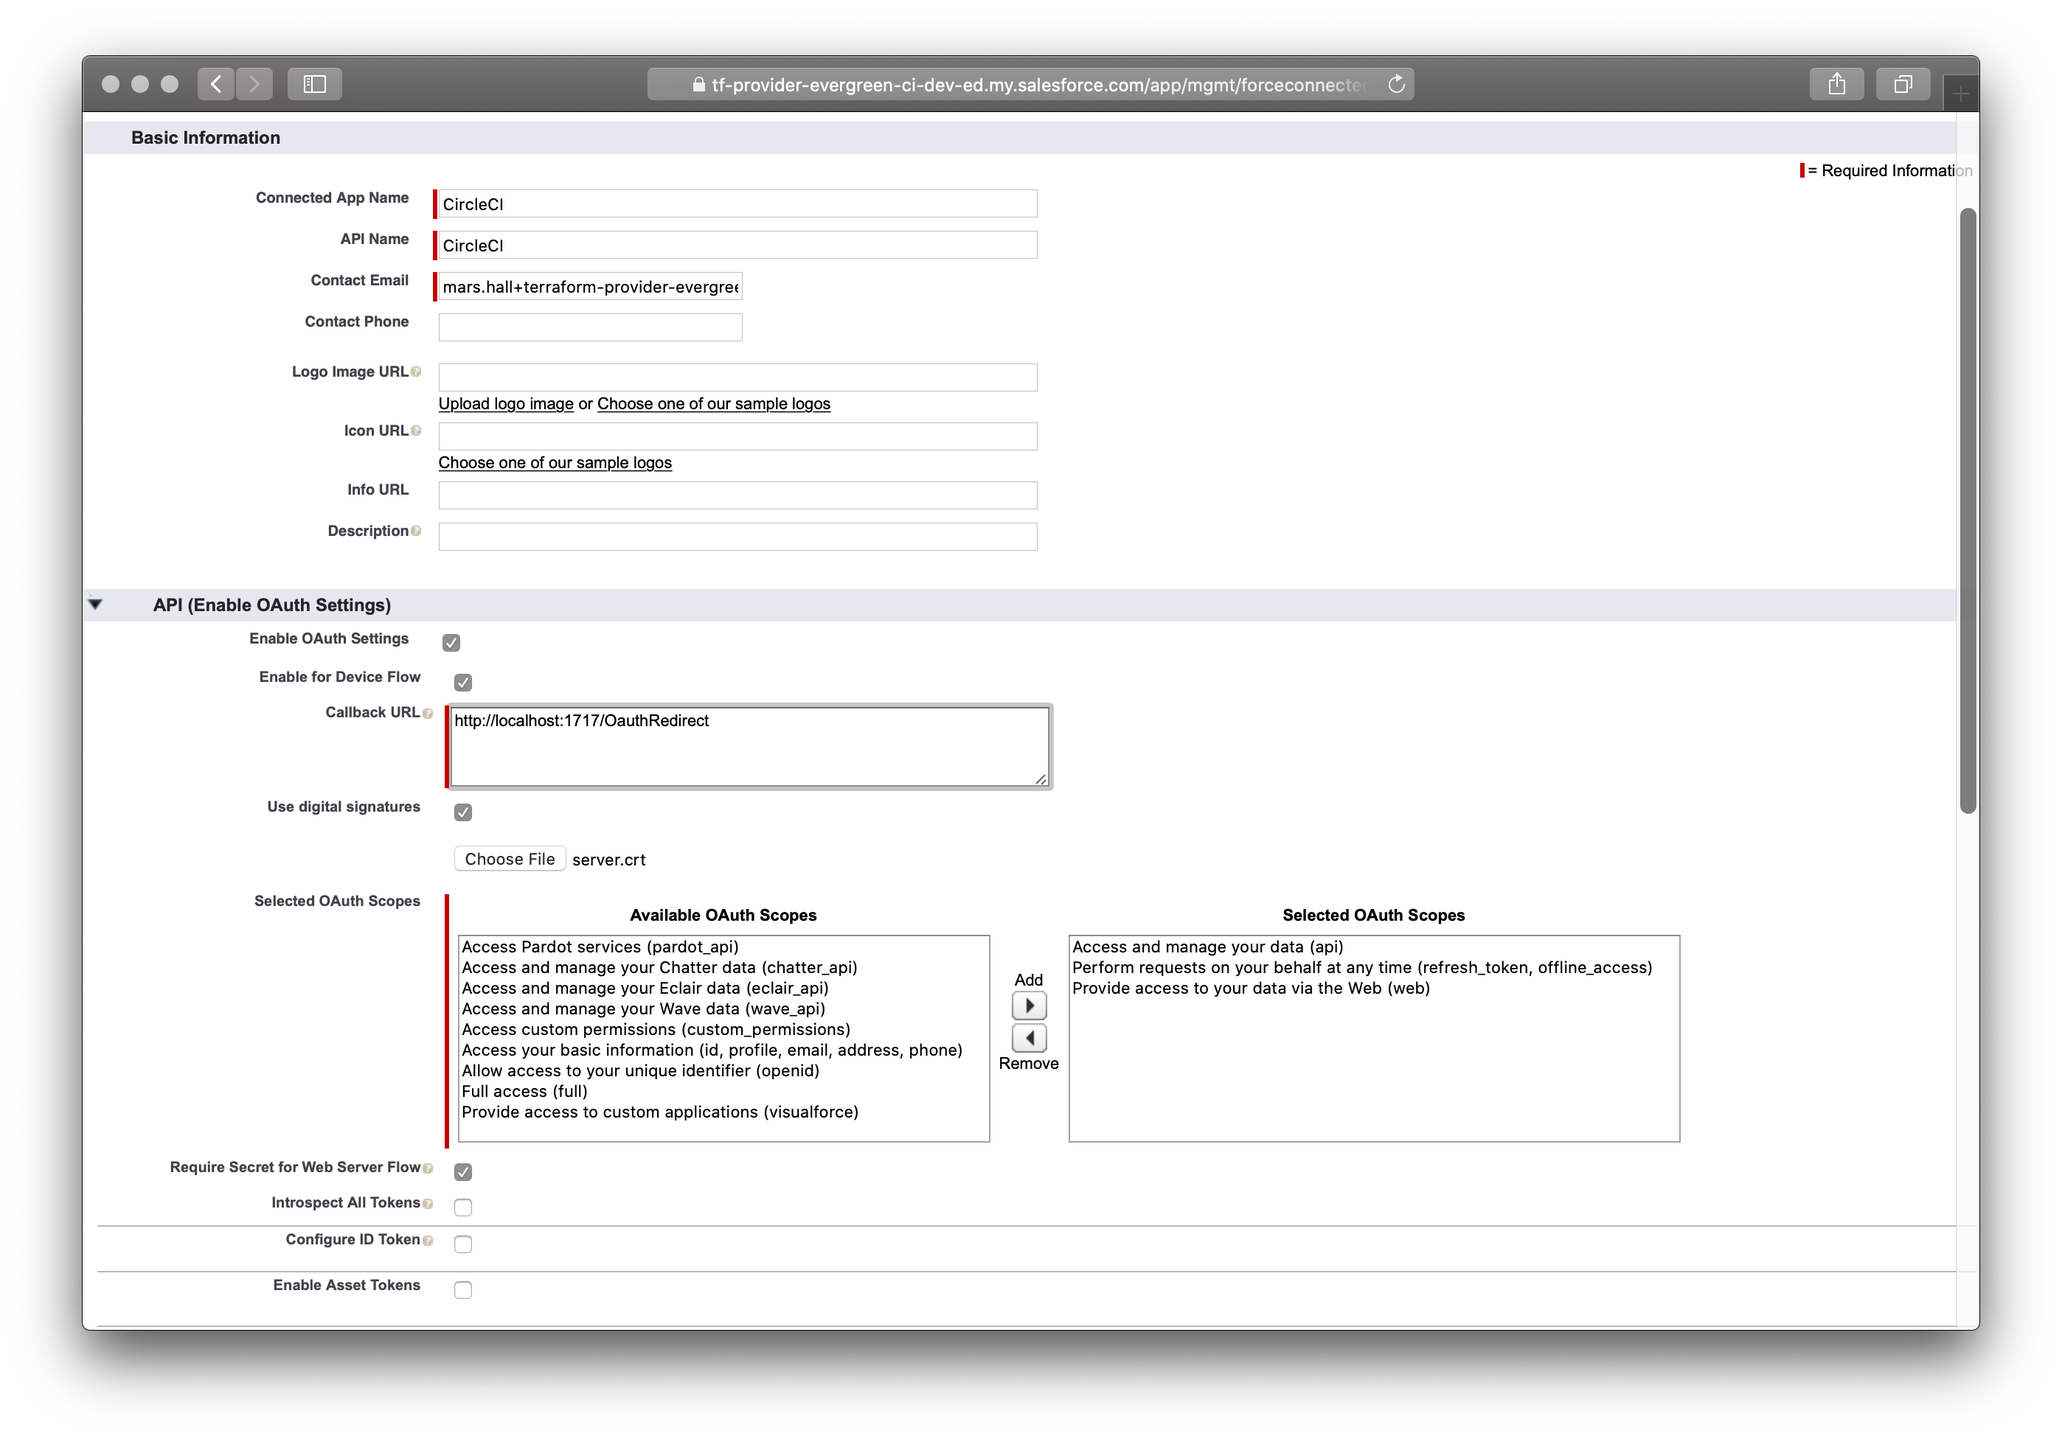
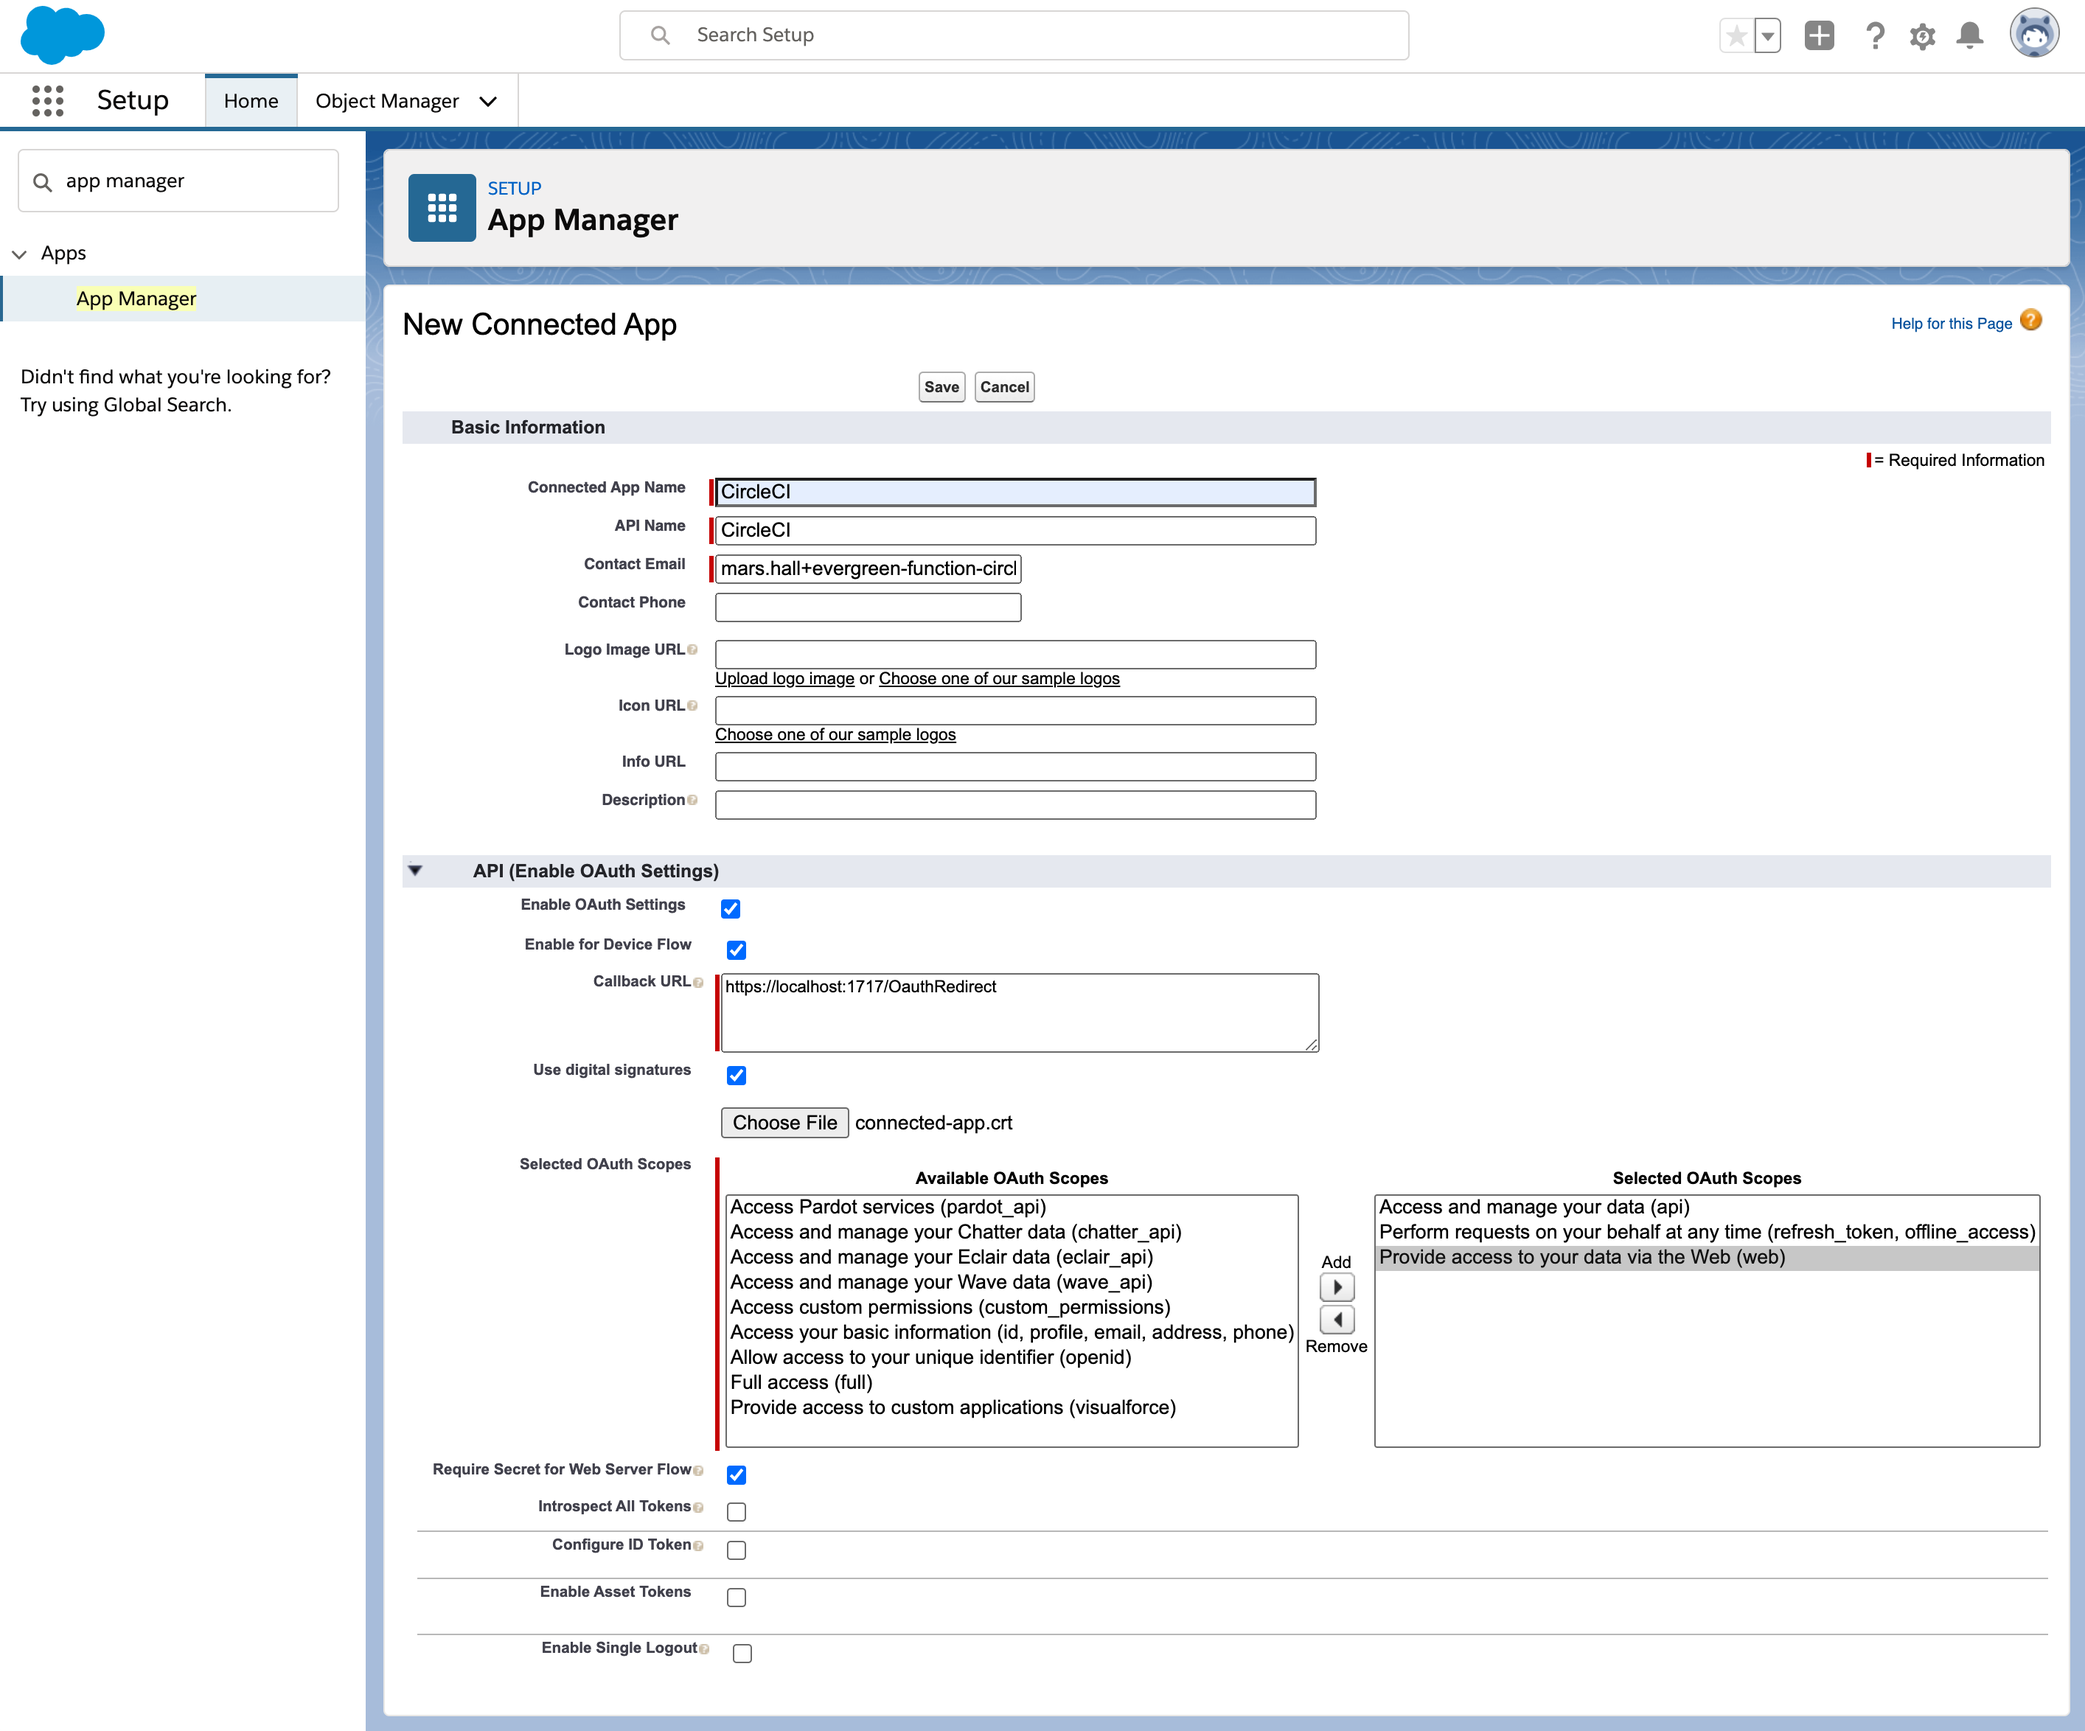
Revise description & encryption params of the cert (#1)
* Revise description & encryption params of the certificate generation step

* Improve Connected App setup instructions

Changed region(s): [[0.0, 0.0, 1.0, 1.0]]

diff --git a/README.md b/README.md
@@ -33,7 +33,7 @@ During the Functions Pilot, their continuous integration story will utilize Circ
 
 ### 1. Create a certificate
 
-Set the certificate to identify as “CircleCI”, but really the field contents of the cert do not matter. All Salesforce cares about is the cryptographic signing & verification enabled by the certificate pair.
+The certificate will be used for cryptographic verification of authentication requests from `sfdx` on CircleCI. When prompted, set the certificate's common name to “CircleCI”. Other fields will be visible in the Salesforce Connected App's details, but can be safely ignored.
 
 In your command shell:
 
@@ -41,10 +41,10 @@ In your command shell:
 mkdir circleci-jwt-auth/ && cd circleci-jwt-auth/
 
 export PASS="$(openssl rand -hex 20)"
-openssl genrsa -des3 \
+openssl genrsa -aes256 \
   -passout "pass:$PASS" \
   -out connected-app.pass.key \
-  2048
+  4096
 openssl rsa -passin "pass:$PASS" \
   -in connected-app.pass.key \
   -out connected-app.key
@@ -68,7 +68,17 @@ base64 connected-app.key > connected-app.key.base64
 
 Create a Connected App in the Salesforce Dev Hub that provides authentication for external services based on the new certificate.
 
-In Salesforce **Setup** → **App Manager**, create a **New Connected App**, with the following **Name**, **Callback URL** and **Selected Oauth Scopes** set.
+In Salesforce **Setup** → **App Manager**, create a **New Connected App**, with the following set:
+
+- **Name** `CircleCI`
+- **Contact Email**
+  - your own org's admin email
+- **Callback URL** `https://localhost:1717/OauthRedirect`
+  - allows local `sfdx` CLI to complete auth flow
+- **Selected Oauth Scopes** required by `sfdx` CLI:
+  - Access and manage your data (api)
+  - Perform requests on your behalf at any time (refresh_token, offline_access)
+  - Provide access to your data via the Web (web)
 
 As the new Connected App's **Digital Signature file**, upload the file (created above) `circleci-jwt-auth/connected-app.crt`.
 
@@ -76,7 +86,12 @@ As the new Connected App's **Digital Signature file**, upload the file (created 
 
 📝  Note the **Consumer Key** value of the Connected App for use later in CircleCI's `SFDX_CONSUMER_KEY` environment variable.
 
-Then **Manage** that app to set **Permitted Users** and the **Profile** as follows:
+Then **Manage** the app:
+
+- **Edit Policies** → **Permitted Users** select:
+  - Admin approved users are pre-authorized
+- **Manage Profiles** select:
+  - System Administrator
 
 ![Screenshot of manage Connected App](doc/images/connected-app.png)
 
@@ -96,6 +111,7 @@ Configure the CircleCI project to edit its **Environment Variables**. Set the fo
 
   - **`SFDX_CONSUMER_KEY`** to the Consumer Key display in Salesforce Setup for the Connected App
   - **`SFDX_JWT_KEY`** to the contents of `circleci-jwt-auth/connected-app.key.base64`
+    - clipboard copy on macOS: `cat circleci-jwt-auth/connected-app.key.base64 | pbcopy`
   - **`SFDX_USERNAME`** the Salesforce username of a **System Administrator** (or whatever Profile you assigned to the Connected App).
 
 
